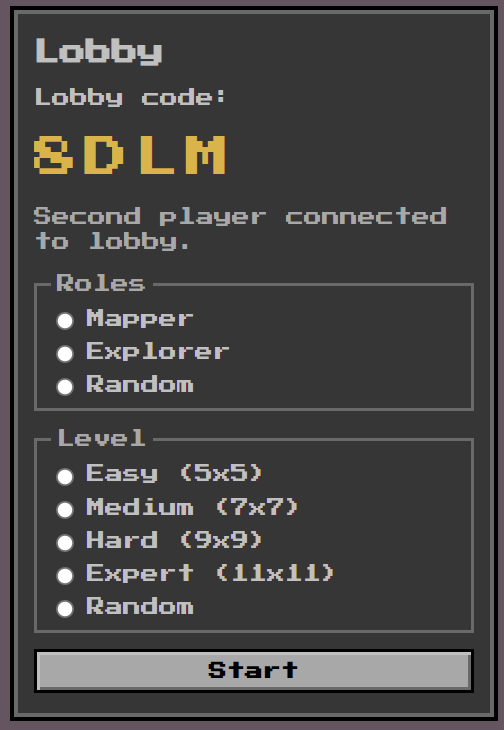
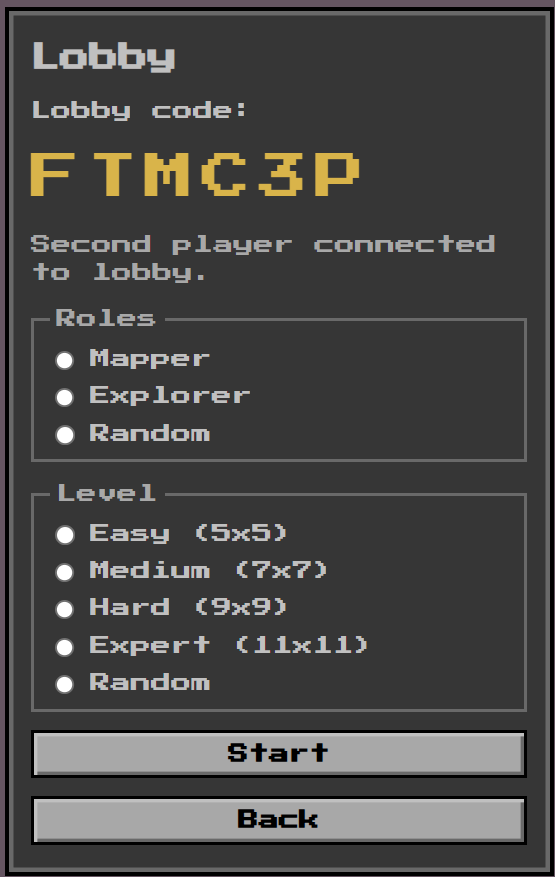
LazyJoiner
Joined player now only sees settings.
Updated readme.md

diff --git a/src/main.ts b/src/main.ts
@@ -8,6 +8,9 @@ import { NetService, validMessage, type msg } from './core/net';
 import { GameView } from './core/view';
 import { Chat } from './core/chat';
 
+const ROLE_KEYS: Record<string, string> = { mapper: 'lobby.roles.mapper', explorer: 'lobby.roles.explorer', random: 'lobby.roles.random' };
+const LEVEL_KEYS: Record<string, string> = { '5': 'lobby.level.easy', '7': 'lobby.level.medium', '9': 'lobby.level.hard', '11': 'lobby.level.expert', random: 'lobby.level.random' };
+
 type Screen = 'home' | 'lobby' | 'mapper' | 'explorer' | 'result' | 'leaderboard' | 'privacy' | 'settings' | 'howtoplay';
 
 // Klasa GameSession 
@@ -20,7 +23,7 @@ export class GameSession {
   overlayReturn: Screen = 'home';
   isHost = false;
   assignedRole: 'mapper' | 'explorer' = 'explorer';
-  guestVote?: string;
+  lobbyView = { role: '', level: '' };
   secondNick?: string;
   lastMs = 0;
   keys: Record<Dir, string> = loadKeys();
@@ -78,6 +81,9 @@ export class GameSession {
 
     if (name === 'lobby') {
       document.getElementById('role-set')!.hidden = !this.isHost;
+      document.getElementById('level-set')!.hidden = !this.isHost;
+      document.getElementById('lobby-summary')!.hidden = this.isHost;
+      this.renderSummary();
       this.updateLobbyStatus();
     }
 
@@ -93,6 +99,12 @@ export class GameSession {
       document.querySelectorAll<HTMLElement>('.diag').forEach((b) => (b.hidden = !this.state.maze.ext));
       this.startTimer('#timer2');
     }
+  }
+
+  renderSummary() {
+    const label = (keys: Record<string, string>, v: string) => (keys[v] ? t(keys[v]).trim() : '---');
+    document.getElementById('sum-role')!.textContent = label(ROLE_KEYS, this.lobbyView.role);
+    document.getElementById('sum-level')!.textContent = label(LEVEL_KEYS, this.lobbyView.level);
   }
 
   updateLobbyStatus() {
@@ -214,10 +226,12 @@ export class GameSession {
       case 'player-join':
         this.secondNick = m.nick;
         this.updateLobbyStatus();
+        this.sendSettings();
         break;
-      
-      case 'vote':
-        this.guestVote = m.level;
+
+      case 'settings':
+        this.lobbyView = { role: m.role, level: m.level };
+        this.renderSummary();
         break;
 
       case 'refresh_top':
@@ -278,9 +292,11 @@ export class GameSession {
     );
   }
 
-  sendVote() {
-    const level = document.querySelector<HTMLInputElement>('input[name="level"]:checked')?.value ?? '5';
-    this.net.send({ t: 'vote', level });
+  sendSettings() {
+    const pick = (name: string) => document.querySelector<HTMLInputElement>(`input[name="${name}"]:checked`)?.value ?? '';
+    const mine = pick('role');
+    const role = mine === 'mapper' ? 'explorer' : mine === 'explorer' ? 'mapper' : mine;
+    this.net.send({ t: 'settings', role, level: pick('level') });
   }
 
   startNewGame() {
@@ -294,9 +310,7 @@ export class GameSession {
     this.assignedRole = hostRole;
     const guestRole: 'mapper' | 'explorer' = hostRole === 'mapper' ? 'explorer' : 'mapper';
 
-    const hostVote = document.querySelector<HTMLInputElement>('input[name="level"]:checked')?.value ?? '5';
-    const votes = [hostVote, this.guestVote ?? hostVote];
-    this.settings.difficulty = votes[Math.floor(Math.random() * votes.length)];
+    this.settings.difficulty = document.querySelector<HTMLInputElement>('input[name="level"]:checked')?.value ?? '5';
 
     const size = this.settings.getMazeSize();
     this.state = new GameState(size);
@@ -404,14 +418,12 @@ export class GameSession {
       }
 
       this.isHost = true;
-      this.guestVote = undefined;
       this.secondNick = undefined;
       this.chat.clear();
       codeEl.textContent = '…';
       this.net.host(
         (code) => (codeEl.textContent = code),
         () => {
-          this.guestVote = undefined;
           this.secondNick = undefined;
           this.show('lobby');
           this.updateLobbyStatus();
@@ -451,11 +463,11 @@ export class GameSession {
       }
       
       this.isHost = false;
+      this.lobbyView = { role: '', level: '' };
       this.chat.clear();
       this.net.join(code, () => {
         codeEl.textContent = code;
         this.show('lobby');
-        this.sendVote();
         
         if (this.net.connected) {
           this.net.send({ t: 'player-join', nick: nickVal });
@@ -463,9 +475,9 @@ export class GameSession {
       });
     });
 
-    document.querySelectorAll<HTMLInputElement>('input[name="level"]').forEach((r) =>
+    document.querySelectorAll<HTMLInputElement>('input[name="role"], input[name="level"]').forEach((r) =>
       r.addEventListener('change', () => {
-        if (!this.isHost) this.sendVote();
+        if (this.isHost) this.sendSettings();
       }),
     );
 

diff --git a/index.html b/index.html
@@ -84,13 +84,17 @@
         <p data-i18n="lobby.codeLabel">Lobby code:</p>
         <p class="code" id="lobby-code">HI4UNU</p>
         <p id="lobby-status" class="lead" data-i18n="lobby.waiting">Waiting for the second player…</p>
+        <div id="lobby-summary" hidden>
+          <p><span data-i18n="lobby.summary.role">Your role:</span> <span id="sum-role">---</span></p>
+          <p><span data-i18n="lobby.summary.level">Chosen difficulty:<br /></span> <span id="sum-level">---</span></p>
+        </div>
         <fieldset id="role-set">
           <legend data-i18n="lobby.roles.legend">Roles</legend>
           <label><input type="radio" name="role" value="mapper" /><span data-i18n="lobby.roles.mapper"> Mapper</span></label>
           <label><input type="radio" name="role" value="explorer" /><span data-i18n="lobby.roles.explorer">Explorer </span></label>
           <label><input type="radio" name="role" value="random" /><span data-i18n="lobby.roles.random"> Random </span></label>
         </fieldset>
-        <fieldset>
+        <fieldset id="level-set">
           <legend>Level</legend>
           <label><input type="radio" name="level" value="5" /><span data-i18n="lobby.level.easy"> Easy (5x5) </span></label>
           <label><input type="radio" name="level" value="7" /><span data-i18n="lobby.level.medium"> Medium (7x7) </span></label>

diff --git a/src/core/net.ts b/src/core/net.ts
@@ -9,7 +9,7 @@ export type msg =
 | { t: 'init', role: 'mapper' | 'explorer', maze: Labirynth } 
 | { t: 'rotation', i: number, rotation: number }
 | { t: 'player-join', nick: string }
-| { t: 'vote', level: string }
+| { t: 'settings', role: string, level: string }
 | {t: 'refresh_top'}
 | { t: 'chat', text: string }
 | { t: 'end', result: 'win' | 'trap' };
@@ -36,8 +36,8 @@ export function validMessage(m: msg, isHost: boolean, sender: 'mapper' | 'explor
       return sender === 'mapper' && Number.isInteger(m.i) && m.i >= 0 && m.i < tileCount && (m.rotation === 90 || m.rotation === -90);
     case 'end':
       return sender === 'explorer' && (m.result === 'win' || m.result === 'trap');
-    case 'vote':
-      return isHost && ['5', '7', '9', '11', 'random'].includes(m.level);
+    case 'settings':
+      return !isHost && ['mapper', 'explorer', 'random', ''].includes(m.role) && ['5', '7', '9', '11', 'random', ''].includes(m.level);
     case 'player-join':
       return isHost && typeof m.nick === 'string';
     case 'refresh_top':

diff --git a/src/style.css b/src/style.css
@@ -1,4 +1,4 @@
-    @font-face {
+@font-face {
       font-family: 'Press Start 2P';
       src: url('fonts/press-start-2p.ttf') format('truetype');
       font-weight: normal;
@@ -274,3 +274,4 @@
     #chat-input { text-transform: none; font-size: 12px; padding: 6px 8px; }
     #chat-send { font-size: 12px; padding: 6px 10px; }
     #open-chat.unread { box-shadow: 0 0 0 3px var(--exit); }
+    #sum-role, #sum-level { color: var(--exit); }

diff --git a/src/core/chat.ts b/src/core/chat.ts
@@ -1,7 +1,7 @@
 import { t } from './i18n';
 
-const MAX_LEN = 200;
-const MAX_LINES = 50;
+const MAX_LEN = 50;
+const MAX_LINES = 10;
 const MIN_OUT_GAP_MS = 1000;
 const MIN_IN_GAP_MS = 250;
 

diff --git a/README.md b/README.md
@@ -1,5 +1,6 @@
 # Find-a-way
 
+## Polski
 ## Opis Projektu
  Aplikacja to prosta gra, która polega na przejściu labiryntu.\
  W grze są dwie role.\
@@ -29,9 +30,15 @@
 ## Przykłady użycia
 ### Połączenie
 * Widok lobby z perspektywy hosta.\
-![demo](docs/LobbyHostView.png) 
+![demo](docs/LobbyHostView.png) \
+Osoba hostująca ma możliwość wyboru ról oraz poziomu trudności.
+
 * Widok lobby z perspektywy osoby dołączającej.
-Aby połączyć się z drugą osobą, osoba hostująca przekazuje kod pokoju drugiej osobie. Gdy druga osoba dołączy, host dostaje taką informacje.
+![demo](docs/LobbyJoinedView.png) \
+Osoba, która dołączyła widzi jedynie swoją role i wybrany poziom trudności.
+
+
+Aby połączyć się z drugą osobą, osoba hostująca przekazuje kod pokoju drugiej osobie. Gdy druga osoba dołączy, host dostaje taką informacje - "Second player connected to lobby.".
 
 
 ### Widok Explorera
@@ -39,15 +46,101 @@ Aby połączyć się z drugą osobą, osoba hostująca przekazuje kod pokoju dru
 Jako eksplorer widzisz jedynie bloki wokół siebie. Czerwony wykrzyknik to pułapka, wejście w nią kończy się przegraną.
 Do poruszania można użyć strzałek, lub klawiszy literowych wsad. Jednak przy rozszerzonych typach zalecane jest użycie liter qweasdzc, jako że pozwala to dodatkowo przechodzenie po przekątnych. 
 
-### Zmiana klawiszy ruchu
-![demo](docs/KeyMappingView.png) \
-Aby zmienić preferowane klawisze literowe do przejścia labirynu należy kliknąć przycisk "Klawisze". Pojawi się wtedy lista klawiszy. Aby zmienić wybrany klawisz ruchu trzeba kliknąć odpowiadającą mu obecnie litere, a następnie kliknąć preferowaną z klawiatury.
-
 ### Widok Mappera
 ![demo](docs/MapperView.png) \
 Jako mapper widzisz całą mapę i aktualne ustawienie bloczków. Aby obrócić wybrany bloczek należy na niego kliknąć. Miejsce kliknięcia na bloczek ma znaczenie, klikając w prawą połowe obracasz w prawo, lewą strone w lewo. Żółta strzałka to wyjście do którego prowadzisz drugą osobe.
 
-## Licencja
+### Chat
+![demo](docs/ChatView.png) \
+Gracze mają możliwość komunikacji między sobą. Czat ma ograniczoną historie do 10 wiadomości oraz 50 liter na jedną wiadomość.
+
+### Tipy
+(IN PROGRESS)
+
+### Ustawienia
+![demo](docs/SettingsView.png) \
+Pod klawiszem 'ESC' lub klikając w ikone zębatki użytkownik jest przekierowywany do ustawień. Tam jest możliwość doboru języka, przypisania klawiszy ruchu oraz zmiany zgody do połączenia z serwerem.
+
+### Zmiana klawiszy ruchu
+![demo](docs/KeyMappingView.png) \
+Aby zmienić preferowane klawisze literowe do przejścia labirynu należy kliknąć przycisk "Klawisze". Pojawi się wtedy lista klawiszy. Aby zmienić wybrany klawisz ruchu trzeba kliknąć odpowiadającą mu obecnie litere, a następnie kliknąć preferowaną z klawiatury.
+
+
+
+## English
+
+## Project Description
+The application is a simple game in which players must navigate through a maze. \
+There are two roles in the game: \
+Mapper – a player who has access to the entire map. Their task is to rotate corridor tiles and communicate directions to the other player to help them reach the exit. \
+Explorer – a player who navigates the maze as a knight. Unfortunately, as a character trapped inside the maze, you have a limited field of view. However, you can still detect traps along your path.
+
+## Installation
+
+ * To run the application locally:
+ ```
+    npm run dev
+ ```
+
+ * Required dependencies:
+ ```
+ npm install
+ npm install peerjs     
+ npm install @supabase/supabase-js    
+ ```
+
+ ## Database
+The database was added to meet the requirements of a student project. \
+The Supabase "anon" key included in this repository is intentionally public. \
+The database only stores usernames provided by users and their completion times, so there is no risk of losing any important data. \
+Access is restricted using Row Level Security (RLS). Only INSERT and SELECT operations are allowed.
+
+## Usage Examples
+### Connection
+* Lobby view from the host's perspective. \
+![demo](docs/LobbyHostView.png) \
+The host can choose the roles and difficulty level.
+
+* Lobby view from the perspective of a joining player.
+![demo](docs/LobbyJoinedView.png) \
+The joining player can only see their assigned role and the selected difficulty level.
+
+
+To connect with another player, the host must share the room code with them. Once the second player joins, the host receives the following notification: "Second player connected to lobby."
+
+
+### Explorer View
+![demo](docs/ExplorerView.png) \
+As an Explorer, you can only see the tiles surrounding your character. The red exclamation mark indicates a trap. Stepping on one results in losing the game. You can use the arrow keys or the WASD keys to move. However, when using extended movement options, the QWEASDZC keys are recommended, as they also allow diagonal movement.
+
+### Mapper View
+![demo](docs/MapperView.png) \
+As a Mapper, you can see the entire map and the current tile arrangements. To rotate a tile, simply click on it. The position of the click matters: Clicking the right half of a tile rotates it clockwise. Clicking the left half rotates it counterclockwise. The yellow arrow indicates the exit you must guide the other player towards.
+
+### Chat
+![demo](docs/ChatView.png) \
+Players can communicate with each other using the built-in chat.
+The chat has the following limitations: 
+* Message history is limited to 10 messages. 
+* Each message can contain up to 50 characters.
+
+### Tips
+(IN PROGRESS)
+
+### Settings
+![demo](docs/SettingsView.png) \
+Pressing the ESC key or clicking the gear icon opens the settings menu.
+There, users can:
+* Change the application language.
+* Customize movement key bindings.
+* Change their consent settings for connecting to the server.
+
+### Changing Movement Key Bindings
+![demo](docs/KeyMappingView.png) \
+To change your preferred movement keys, click the "Keys" button. A list of available key bindings will appear.
+To change a specific movement key, click its currently assigned key and then press the desired key on your keyboard.
+
+## Licencja / License
 
 MIT
 
